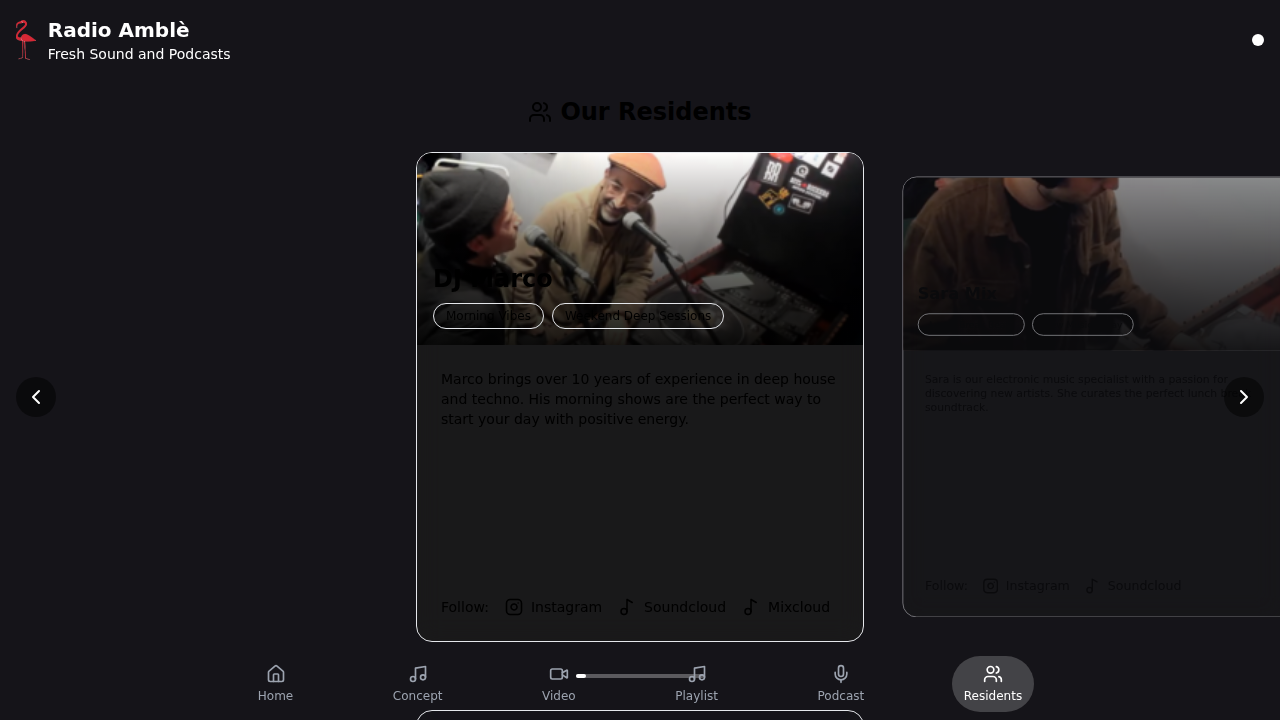
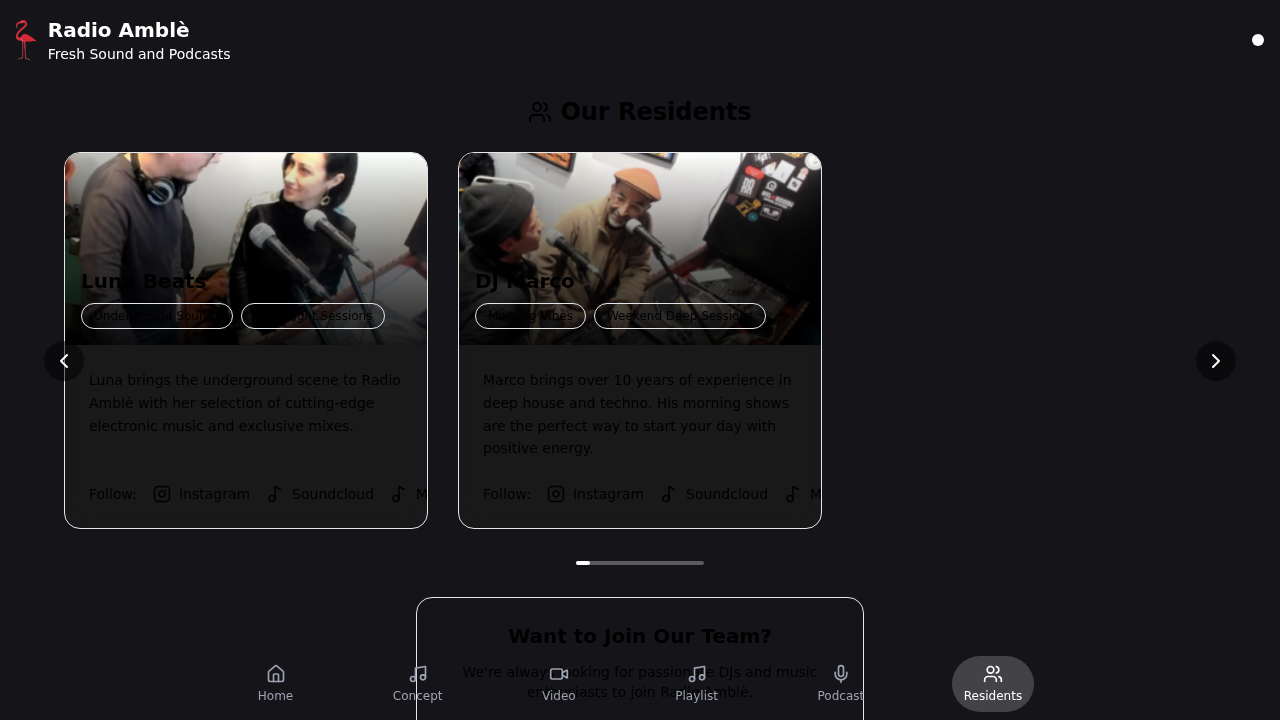
feat: Implement and update Swiper sliders
- Replaced the `embla-carousel-react` slider with `swiper` on the `PlaylistsPage` component.
- Installed `swiper` and removed `embla-carousel-react` and `embla-carousel-autoplay` dependencies.
- Implemented a new Swiper slider on the `ResidentsPage` to display resident cards in a carousel.
- Updated the `ResidentsPage` slider to display three slides per view with a centered active slide, as per new design requirements.
- Removed previous scaling and font-size adjustments that were workarounds for the old design.
- Corrected styling and updated image URLs to ensure proper visual verification across all changes.

diff --git a/src/components/ResidentsPage.tsx b/src/components/ResidentsPage.tsx
@@ -62,7 +62,6 @@ const ResidentsPage: React.FC = () => {
   ];
 
   const swiperRef = useRef<SwiperCore | null>(null);
-  const [selectedIndex, setSelectedIndex] = useState(0);
   const [progress, setProgress] = useState(0);
 
   const getSocialIcon = (platform: string) => {
@@ -84,14 +83,14 @@ const ResidentsPage: React.FC = () => {
         <h2 className="text-snow font-bold text-2xl">Our Residents</h2>
       </div>
 
-      <div className="relative w-full h-[70vh] md:h-[65vh] lg:h-[60vh] xl:h-[68vh]">
+      <div className="relative w-full max-w-6xl">
         <Swiper
           onSwiper={(swiper) => (swiperRef.current = swiper)}
           modules={[Autoplay, Navigation]}
           loop={true}
           centeredSlides={true}
-          slidesPerView={'auto'}
-          spaceBetween={16}
+          slidesPerView={3}
+          spaceBetween={30}
           autoplay={{
             delay: AUTOPLAY_DELAY,
             disableOnInteraction: false,
@@ -100,21 +99,17 @@ const ResidentsPage: React.FC = () => {
             nextEl: '.swiper-button-next-residents',
             prevEl: '.swiper-button-prev-residents',
           }}
-          onSlideChange={(swiper) => setSelectedIndex(swiper.realIndex)}
           onAutoplayTimeLeft={(s, time, progress) => {
             setProgress(1 - progress);
           }}
-          className="w-full h-full"
+          className="w-full"
         >
-          {residents.map((resident, index) => (
+          {residents.map((resident) => (
             <SwiperSlide
               key={resident.id}
-              className="flex-[0_0_80%] md:flex-[0_0_50%] lg:flex-[0_0_40%] xl:flex-[0_0_35%] min-w-0"
+              className="h-auto"
             >
-              <div className={cn(
-                "bg-gluon-grey/80 backdrop-blur-md rounded-2xl border border-slate-grey/50 overflow-hidden h-full flex flex-col transition-transform duration-300 ease-out",
-                index === selectedIndex ? 'scale-100 opacity-100' : 'scale-90 opacity-50'
-              )}>
+              <div className="bg-gluon-grey/80 backdrop-blur-md rounded-2xl border border-slate-grey/50 overflow-hidden h-full flex flex-col">
                 <div className="relative h-48">
                   <img
                     src={resident.image}
@@ -123,18 +118,12 @@ const ResidentsPage: React.FC = () => {
                   />
                   <div className="absolute inset-0 bg-gradient-to-t from-black/90 via-black/50 to-transparent" />
                   <div className="absolute bottom-4 left-4 right-4">
-                    <h3 className={cn(
-                      "text-snow font-bold mb-2 transition-all duration-300",
-                      index === selectedIndex ? "text-2xl" : "text-lg"
-                    )}>{resident.name}</h3>
+                    <h3 className="text-snow font-bold text-xl mb-2">{resident.name}</h3>
                     <div className="flex flex-wrap gap-2">
                       {resident.shows.map((show, idx) => (
                         <span
                           key={idx}
-                          className={cn(
-                            "bg-liquid-lava/20 text-liquid-lava px-3 py-1 rounded-full border border-liquid-lava/30 transition-all duration-300",
-                            index === selectedIndex ? "text-xs" : "text-[10px]"
-                          )}
+                          className="bg-liquid-lava/20 text-liquid-lava text-xs px-3 py-1 rounded-full border border-liquid-lava/30"
                         >
                           {show}
                         </span>
@@ -144,10 +133,7 @@ const ResidentsPage: React.FC = () => {
                 </div>
 
                 <div className="p-6 flex-1 flex flex-col">
-                  <p className={cn(
-                    "text-dusty-grey leading-relaxed mb-6 flex-1 transition-all duration-300",
-                     index === selectedIndex ? "text-sm" : "text-xs"
-                  )}>
+                  <p className="text-dusty-grey text-sm leading-relaxed mb-6 flex-1">
                     {resident.bio}
                   </p>
                   <div className="flex items-center space-x-4">
@@ -172,12 +158,12 @@ const ResidentsPage: React.FC = () => {
         </Swiper>
 
         <button
-          className="swiper-button-prev-residents absolute top-1/2 left-4 -translate-y-1/2 bg-black/50 text-white p-2 rounded-full z-10 hidden md:block"
+          className="swiper-button-prev-residents absolute top-1/2 left-0 -translate-x-1/2 bg-black/50 text-white p-2 rounded-full z-10"
         >
           <ChevronLeft size={24} />
         </button>
         <button
-          className="swiper-button-next-residents absolute top-1/2 right-4 -translate-y-1/2 bg-black/50 text-white p-2 rounded-full z-10 hidden md:block"
+          className="swiper-button-next-residents absolute top-1/2 right-0 translate-x-1/2 bg-black/50 text-white p-2 rounded-full z-10"
         >
           <ChevronRight size={24} />
         </button>
